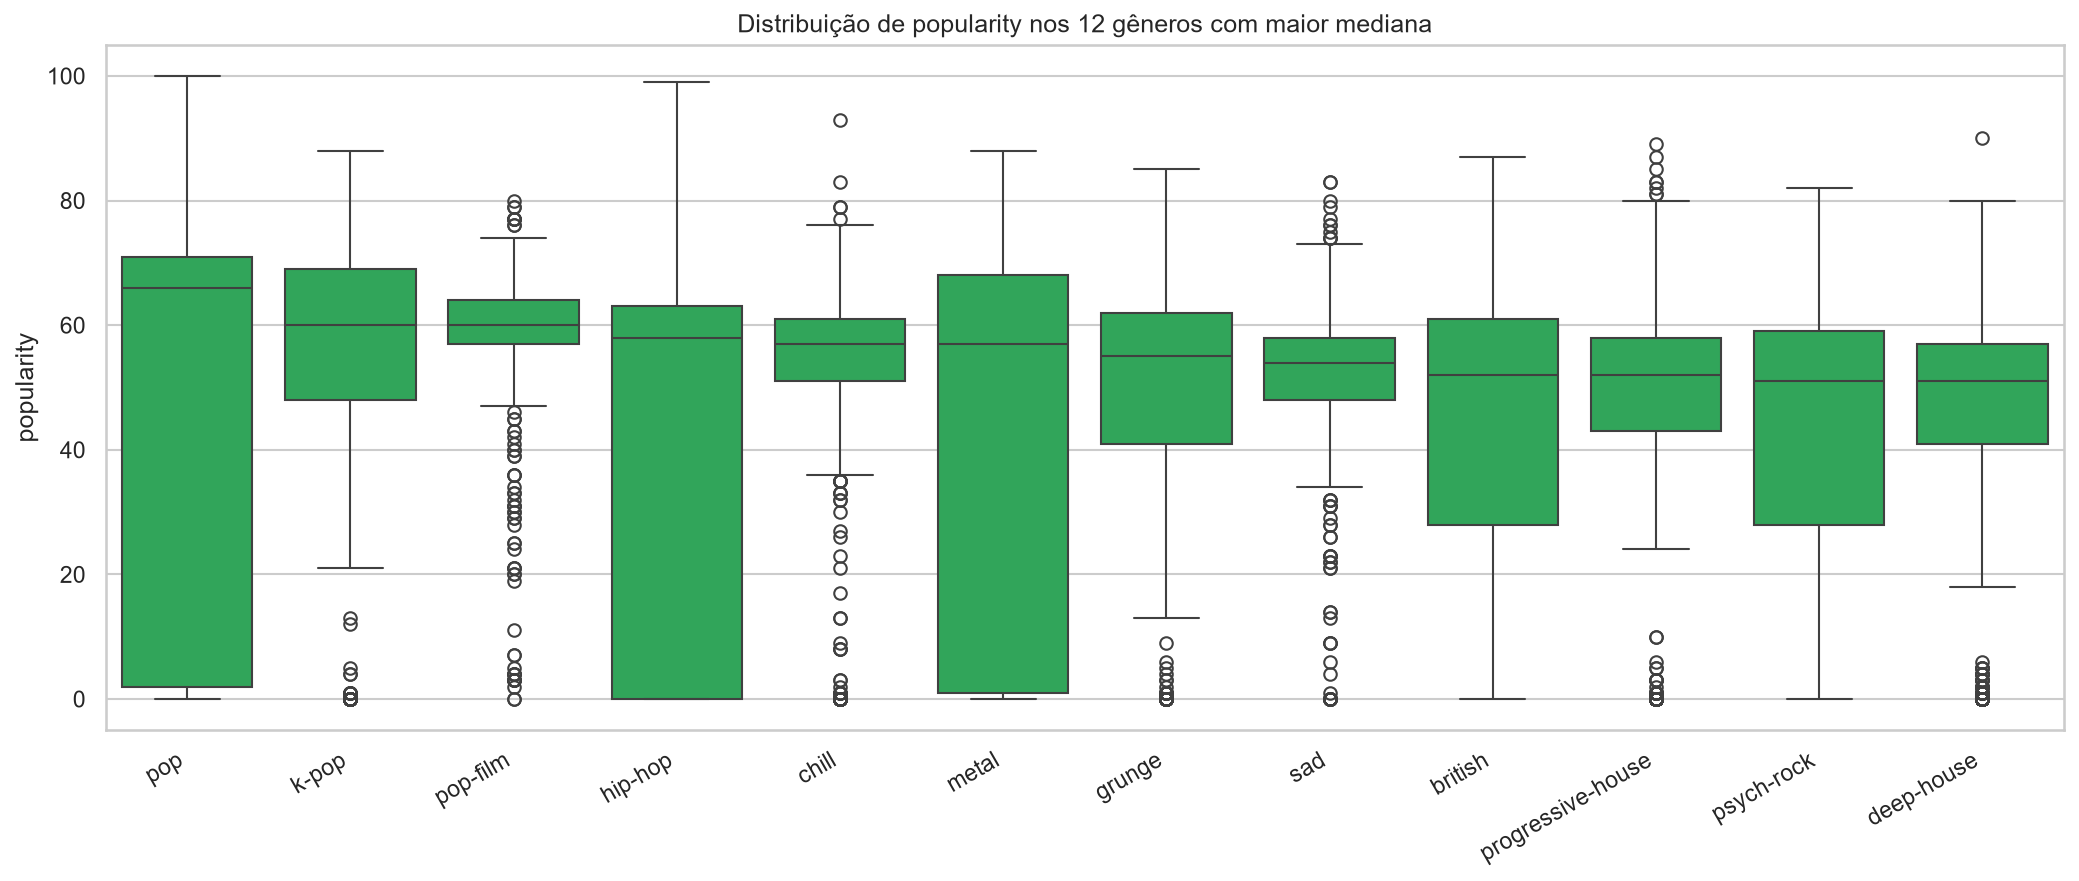
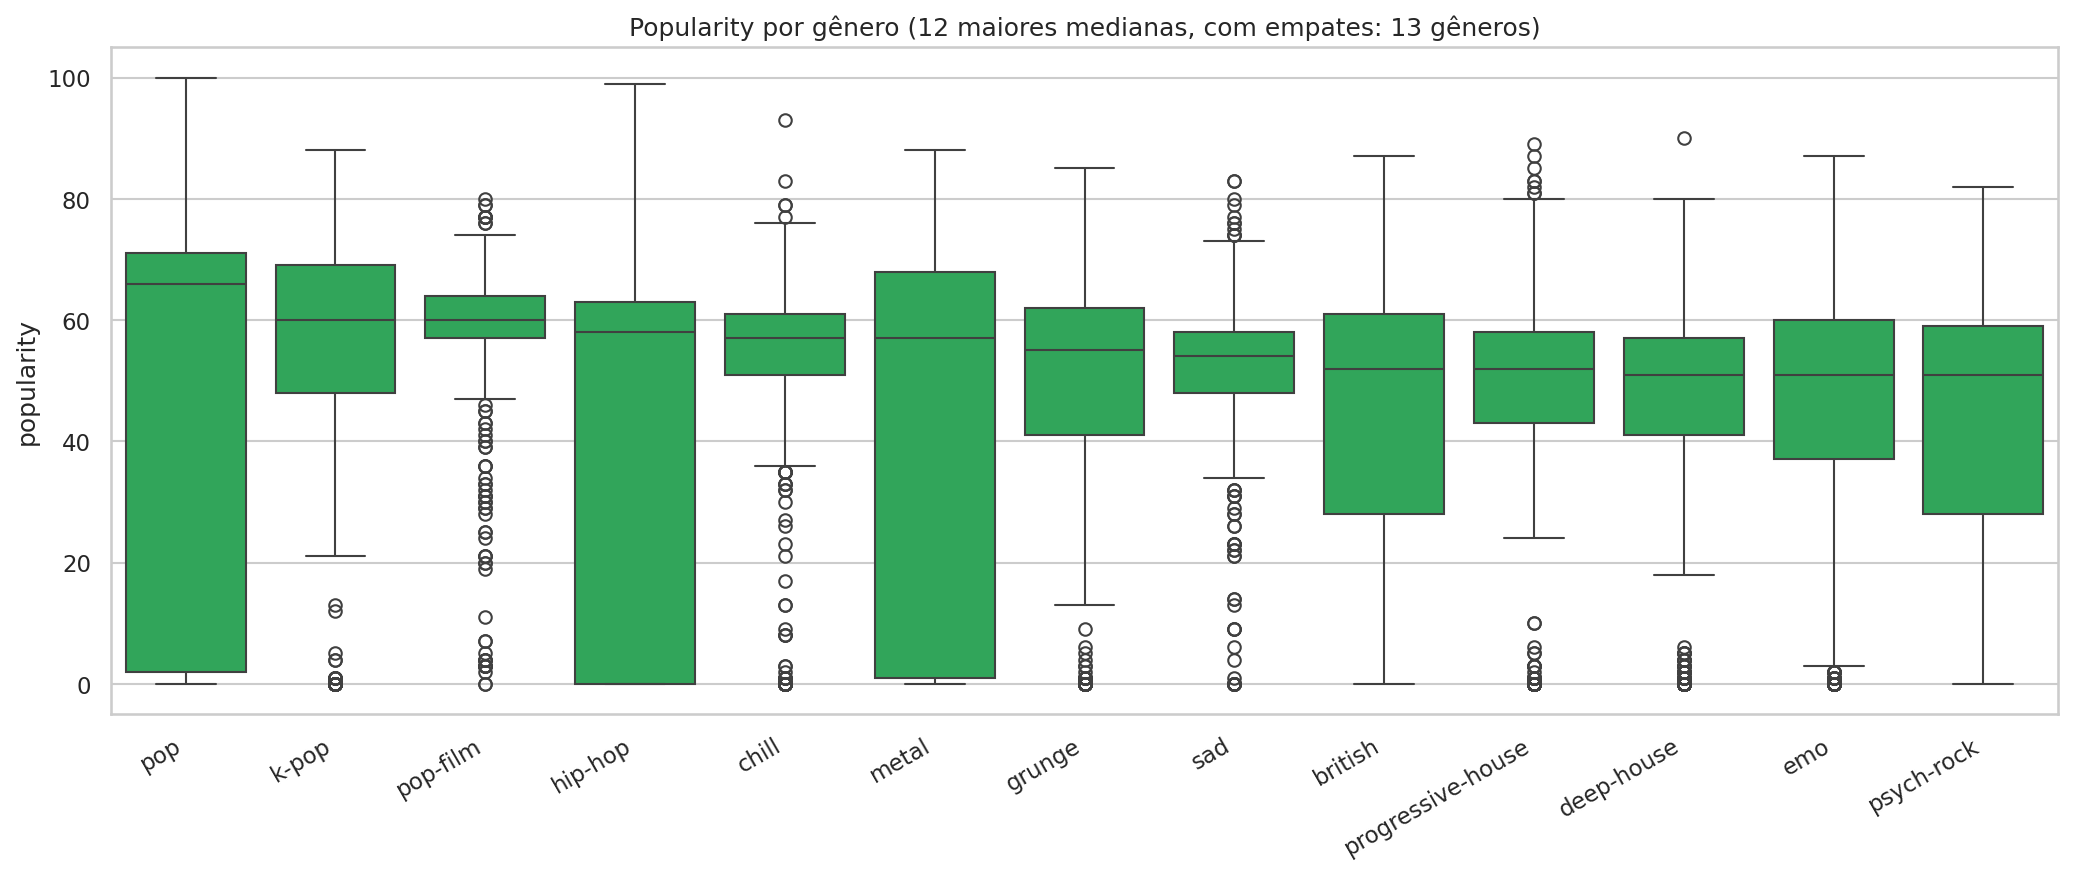
fix: include all cutoff ties and regenerate affected figures

diff --git a/docs/index.html b/docs/index.html
@@ -102,13 +102,13 @@
 </div>
 
 <div class="card">
-  <h2>2. IDs únicos por gênero</h2>
+  <h2>2. IDs únicos por gênero (20 menores contagens, com empates)</h2>
   <div class="method">
     <strong>Método</strong>
-    <p>Contagem de IDs únicos por <code>track_genre</code> após deduplicar o par <code>(track_id, track_genre)</code>. O gráfico mostra os 20 rótulos com menos IDs distintos, destacando repetições de IDs dentro de cada gênero. Ele não mede a sobreposição de faixas entre gêneros.</p>
+    <p>Contagem de IDs únicos por <code>track_genre</code> após deduplicar o par <code>(track_id, track_genre)</code>. O corte é a 20ª menor contagem: são incluídos todos os rótulos com contagem menor ou igual a ela. Nesta versão, o corte é 996 IDs e o gráfico mostra 21 gêneros, incluindo os quatro empatados nesse valor (comedy, drum-and-bass, power-pop e psych-rock). A ordem é crescente por contagem e alfabética nos empates, de cima para baixo. O gráfico destaca repetições de IDs dentro de cada gênero. Ele não mede a sobreposição de faixas entre gêneros.</p>
   </div>
   <p class="note">O CSV original contém 1.000 linhas por gênero; o critério de seleção dessas linhas não está documentado. Essa organização não comprova amostragem aleatória. Após a deduplicação do par, as contagens ficam entre 904 e 1.000 IDs distintos dentro de cada gênero. Uma mesma faixa pode aparecer em vários gêneros; essas contagens não representam faixas exclusivas de um rótulo.</p>
-  <img src="assets/fig1.png" alt="IDs únicos por gênero" width="1000">
+  <img src="assets/fig1.png" alt="21 gêneros entre as 20 menores contagens de IDs únicos, incluindo empates" width="1000">
 </div>
 
 <div class="card">
@@ -151,14 +151,14 @@
 </div>
 
 <div class="card">
-  <h2>6. Popularity por gênero (12 maiores medianas)</h2>
+  <h2>6. Popularity por gênero (12 maiores medianas, com empates)</h2>
   <div class="method">
     <strong>Método</strong>
-    <p>São selecionados os 12 gêneros com maior mediana de <code>popularity</code> a partir do recorte de pares únicos (<code>track_id</code>, <code>track_genre</code>). Para cada gênero, a distribuição de <code>popularity</code> é apresentada por boxplot e os gêneros são ordenados pela mediana decrescente.</p>
+    <p>A partir dos pares únicos (<code>track_id</code>, <code>track_genre</code>), o corte é a 12ª maior mediana de <code>popularity</code>. São incluídos todos os gêneros com mediana maior ou igual a esse corte. Nesta versão, a mediana de corte é 51 e são exibidos 13 gêneros, incluindo deep-house, emo e psych-rock, empatados nesse valor. Os boxplots são ordenados por mediana decrescente e, nos empates, por rótulo em ordem alfabética.</p>
     <p>As medianas descrevem as faixas selecionadas nesta base, não o catálogo do Spotify nem a preferência dos ouvintes. O critério de seleção das 1.000 linhas por gênero não está documentado; não se presume representatividade.</p>
     <p>O boxplot resume mediana, quartis e dispersão; diferenças visuais entre gêneros não constituem, por si só, teste de significância estatística.</p>
   </div>
-  <img src="assets/fig5.png" alt="Boxplots de popularity por gênero" width="1000">
+  <img src="assets/fig5.png" alt="Boxplots dos 13 gêneros entre as 12 maiores medianas de popularity, incluindo empates" width="1000">
 </div>
 
 </main>

diff --git a/research/maintenance-verification.md b/research/maintenance-verification.md
@@ -1,0 +1,45 @@
+# Verificação da manutenção de rastreabilidade
+
+Data: **18/10/2026 UTC**. Base: `c310928b1dbea4f1ab0fcf44118ba70aea36f740`. Escopo: ambiente, entradas, limitações, redação e regra de apresentação de empates. Esta manutenção não define a pergunta nem a fonte central do TCC e não acrescenta um experimento.
+
+## Executado
+
+Os hashes foram recalculados sobre os CSVs preservados da auditoria, sem novo download ou edição dos dados:
+
+| Entrada | SHA-256 |
+|---|---|
[2 lines of base64/hex data omitted]
+
+Ambiente: Python **3.12.14**, pandas **2.2.3**, NumPy **2.3.5**, SciPy **1.17.0**, Matplotlib **3.10.8** e seaborn **0.13.2**. A amostra de dispersão mantém `random_state=42`.
+
+As sete células de código do notebook foram executadas sequencialmente por `exec`, em processo Python novo, com `MPLBACKEND=Agg` e `OPENBLAS_NUM_THREADS=2`. A execução usou uma cópia separada do repositório e os CSVs verificados. Não foi uma execução por kernel Jupyter; expressões finais e figuras inline não foram tratadas como outputs ricos de notebook. As saídas antigas das células modificadas foram limpas no arquivo versionado para evitar exibir resultados anteriores como se fossem os novos.
+
+As verificações dirigidas confirmaram:
+
+- 89.741 IDs no recorte global e 113.550 pares ID–gênero; mesmos 157 IDs com tempo zero, 162 com time_signature zero e um registro sem título.
+- Figura 1: corte de 996, 21 gêneros, incluindo os quatro empatados (`comedy`, `drum-and-bass`, `power-pop`, `psych-rock`).
+- Figura 5: corte de 51, 13 gêneros, incluindo os três empatados (`deep-house`, `emo`, `psych-rock`).
+- Amostra de 8.000 IDs idêntica à obtida pela regra anterior com semente 42; matriz de correlação igual à da auditoria, com tolerância absoluta de `1e-12`.
+- `build_global_hits.py` e `build_emotify.py` concluíram e reproduziram, byte a byte, os dois JavaScripts versionados. As medianas e contagens desses derivados permaneceram iguais.
+- Uma entrada temporária com bytes alterados foi rejeitada tanto pela célula de carregamento Spotify quanto pelo script Emotify. No teste Emotify, o arquivo de saída sentinela permaneceu intacto.
+- Os dois gráficos modificados foram inspecionados visualmente para conferir rótulos, empates e ausência de cortes no conteúdo.
+
+Os valores e stdout dessa execução estão em [maintenance-verification.json](maintenance-verification.json). O JSON registra os hashes e versões efetivamente observados; não é uma estimativa.
+
+## Diff das figuras
+
+| Arquivo | Alteração em relação a `c310928` |
+|---|---|
+| `docs/assets/fig1.png` | 20 → 21 gêneros; acrescenta `psych-rock` (996 IDs); título “com empates”; substitui “faixas” por “IDs”; contagens crescentes de cima para baixo e ordem alfabética nos empates; altura ajustada para 6,5 polegadas. |
+| `docs/assets/fig5.png` | 12 → 13 gêneros; acrescenta `emo` (mediana 51); título “com empates”; ordem alfabética dentro de cada empate. |
+| `docs/assets/fig2.png`, `fig3.png`, `fig4.jpg` | Sem alteração nos arquivos versionados. |
+| `docs/assets/hits-data.js`, `emotify-data.js` | Sem alteração nos arquivos versionados. |
+
+As figuras 1 e 5 foram renderizadas com Matplotlib 3.10.8. Também existem diferenças de renderização em relação aos PNGs anteriores; não se afirma identidade de pixels. A mudança inclui quais gêneros são mostrados, mas não altera os valores calculados para os gêneros existentes.
+
+## Limites e ações não executadas
+
+Não foram removidos registros adicionais, criadas classes de equivalência ou partições, treinados recomendadores, adicionadas páginas ou alterado o deploy. Nenhuma alteração foi aplicada à `main`. Não foi criada uma tag.
+
+Uma tag poderá identificar a versão depois da revisão. A definição de um protocolo para o TCC permanece uma etapa futura, dependente da pergunta e da fonte escolhidas; esta manutenção não a substitui.

diff --git a/README.md b/README.md
@@ -59,3 +59,9 @@ python -m pip install -r requirements.txt
 Para executar o notebook, selecione esse ambiente na sua ferramenta de notebooks e use `notebooks/` como diretório de trabalho. A interface Jupyter/VS Code não faz parte das dependências de cálculo fixadas acima. Os scripts em `scripts/` usam somente a biblioteca padrão e são executados a partir da raiz do repositório.
 
 As figuras publicadas no commit `c310928` foram geradas com **Matplotlib 3.11.2**, conforme os metadados dos PNGs. O ambiente original completo não está registrado. O ambiente acima reproduziu os cálculos auditados, mas **não reproduziu as figuras de forma idêntica em bytes ou pixels**; fontes, dimensões e ordenação de empates podem diferir.
+
+## Regra de apresentação dos empates
+
+Na figura 1, o corte é a 20ª menor contagem de IDs por gênero; todos os gêneros com contagem menor ou igual ao corte entram. Na figura 5, o corte é a 12ª maior mediana de popularity; entram todos os gêneros com mediana maior ou igual ao corte. A ordenação secundária é alfabética por rótulo. No CSV auditado, isso resulta em **21 gêneros** na figura 1 (corte de 996 IDs) e **13** na figura 5 (corte de 51).
+
+Essa regra altera a seleção apresentada: acrescenta `psych-rock` à figura 1 e `emo` à figura 5 em relação ao commit `c310928`, sem mudar as contagens, as medianas ou os recortes de dados. As figuras 1 e 5 foram regeneradas com o ambiente documentado acima; as figuras 2, 3 e 4 permanecem na renderização anterior. As verificações desta manutenção estão em [research/maintenance-verification.md](research/maintenance-verification.md).
